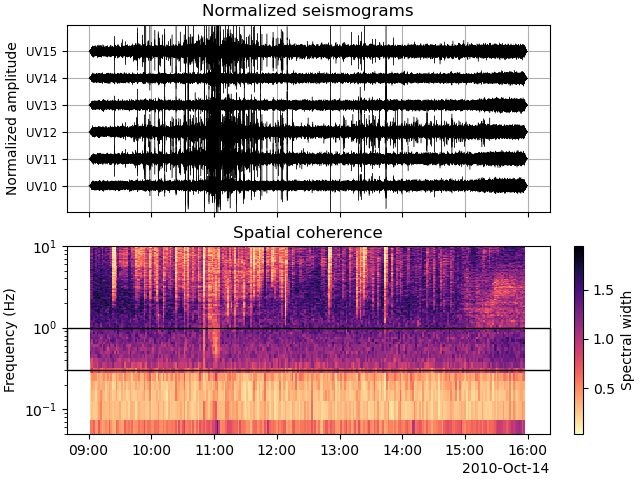
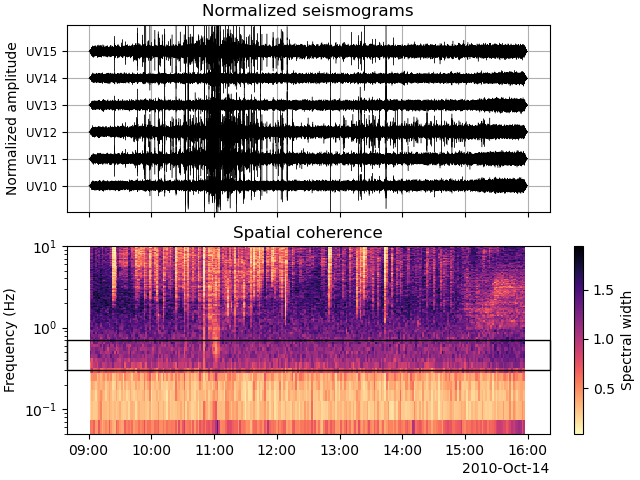
Cross-correlation smooth envelopes

Changed region(s): [[0.0938, 0.6562, 0.875, 0.7188]]

diff --git a/covseisnet/correlation.py b/covseisnet/correlation.py
@@ -2,7 +2,7 @@
 
 import numpy as np
 
-from scipy.signal import butter, filtfilt, hilbert
+from scipy.signal import butter, filtfilt, hilbert, windows
 from scipy.ndimage import gaussian_filter1d
 
 from .covariance import CovarianceMatrix, get_twosided_covariance
@@ -52,7 +52,7 @@ class CrossCorrelationMatrix(np.ndarray):
         """
         self.sampling_rate = sampling_rate
 
-    def envelope(self, **kwargs):
+    def envelope(self, **kwargs) -> "CrossCorrelationMatrix":
         r"""Hilbert envelope of the correlation matrix.
 
         The Hilbert envelope is calculated using the Hilbert transform of the
@@ -90,20 +90,83 @@ class CrossCorrelationMatrix(np.ndarray):
         correlation_envelopes.__dict__.update(self.__dict__)
         return correlation_envelopes
 
-    def smooth(self, sigma, **kwargs):
-        """Apply a 1-D Gaussian filter to the correlation matrix. Uses
-        :func:`~scipy.ndimage.gaussian_filter1d`.
+    def taper(self, max_percentage: float = 0.1) -> "CrossCorrelationMatrix":
+        r"""Taper the correlation matrix.
 
-        Parameters
-        ----------
+        Taper the correlation matrix with the given taper. The taper is
+        applied to the last axis (lags) of the correlation matrix. The tapered
+        correlation matrix is defined as:
 
-        sigma: float
-            Standard deviation for Gaussian kernel
+        .. math::
 
+            R'_{ij}(\tau) = w_T{\tau} R_{ij}(\tau)
+
+        where :math:`w_T` is the taper of maximum duration :math:`T`.
+
+        Arguments
+        ---------
+        max_percentage: float
+            The maximum percentage of the taper. The taper is a Tukey window
+            with the given percentage of the window duration. Default is 0.1.
+
+        Returns
+        -------
+        :class:`~covseisnet.correlation.CrossCorrelationMatrix`
+            The tapered correlation matrix.
         """
-        return gaussian_filter1d(self, sigma, axis=0, **kwargs).view(
+        # Apply taper
+        correlation_tapered = self * windows.tukey(
+            self.shape[-1], max_percentage
+        )
+
+        # Return a view of the tapered correlation matrix
+        correlation_tapered = correlation_tapered.view(CrossCorrelationMatrix)
+
+        # Copy attributes
+        correlation_tapered.__dict__.update(self.__dict__)
+        return correlation_tapered
+
+    def smooth(self, sigma: float = 1, **kwargs) -> "CrossCorrelationMatrix":
+        r"""Use a Gaussian kernel to smooth the correlation matrix.
+
+        This function is usually applied to the envelope of the correlation
+        matrix to smooth the envelope. The smoothing is done using a Gaussian
+        kernel with a standard deviation :math:`\sigma`. The smoothing is done
+        along the last axis (lags). The smoothed correlation matrix is
+        :math:`R'` is defined as:
+
+        .. math::
+
+            R'_{ij}(\tau) = G_{\sigma} * R_{ij}(\tau)
+
+        where :math:`G_{\sigma}` is the Gaussian kernel with standard
+        deviation :math:`\sigma`.
+
+        Arguments
+        ---------
+        sigma: float
+            Standard deviation of the Gaussian kernel. The larger the value,
+            the smoother the correlation matrix. Default is 1.
+        **kwargs: dict
+            Additional arguments passed to
+            :func:`~scipy.ndimage.gaussian_filter1d`.
+
+        Returns
+        -------
+        :class:`~covseisnet.correlation.CrossCorrelationMatrix`
+            The smoothed cross-correlation matrix.
+        """
+        # Smooth the correlation matrix
+        correlation_smoothed = gaussian_filter1d(self, sigma=sigma, **kwargs)
+
+        # Return a view of the smoothed correlation matrix
+        correlation_smoothed = correlation_smoothed.view(
             CrossCorrelationMatrix
         )
+
+        # Copy attributes
+        correlation_smoothed.__dict__.update(self.__dict__)
+        return correlation_smoothed
 
     def flat(self):
         r"""Flatten the first dimensions.

diff --git a/examples/plot_example_c1_correlation.py b/examples/plot_example_c1_correlation.py
@@ -75,7 +75,7 @@ csn.plot.covariance_matrix_modulus_and_spectrum(covariances[t_index, f_index])
 # measure the spectral width of the eigenvalue distribution at each frequency,
 # or with applying the formula of the Neumann entropy.
 
-frequency_band = 0.3, 1
+frequency_band = 0.3, 0.7
 
 # Calculate coherence
 coherence = covariances.coherence(kind="spectral_width")
@@ -100,23 +100,25 @@ lags, pairs, cross_correlation = csn.calculate_cross_correlation_matrix(
 
 # Stack
 cross_correlation = cross_correlation.mean(axis=1)
-
 # Bandpass filter
 cross_correlation.bandpass(frequency_band)
-cross_correlation_env = cross_correlation.envelope()
+cross_correlation = cross_correlation.taper()
+envelope = cross_correlation.envelope()
+envelope_smooth = envelope.smooth(51)
 
 
 # Get a given pair
 i_pair = 3
 pair = pairs[i_pair]
 cross_correlation = cross_correlation[i_pair]
-cross_correlation_env = cross_correlation_env[i_pair]
-print(type(cross_correlation_env))
+envelope = envelope[i_pair]
+envelope_smooth = envelope_smooth[i_pair]
 
 # Plot
 fig, ax = plt.subplots()
 ax.plot(lags, cross_correlation)
-ax.plot(lags, cross_correlation_env)
+ax.plot(lags, envelope)
+ax.plot(lags, envelope_smooth)
 ax.grid()
 ax.set_title(f"Cross-correlation between {pair}")
 ax.set_xlabel("Lag time (s)")
